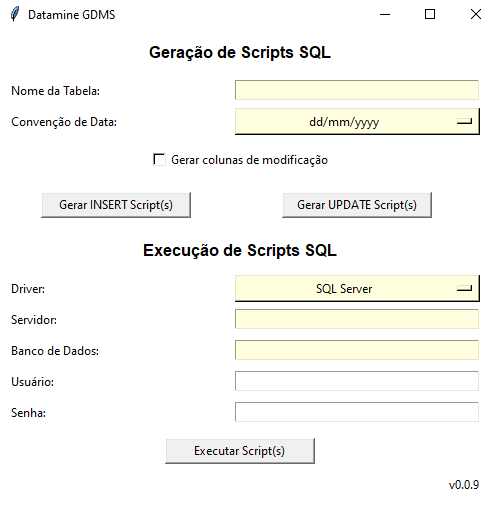
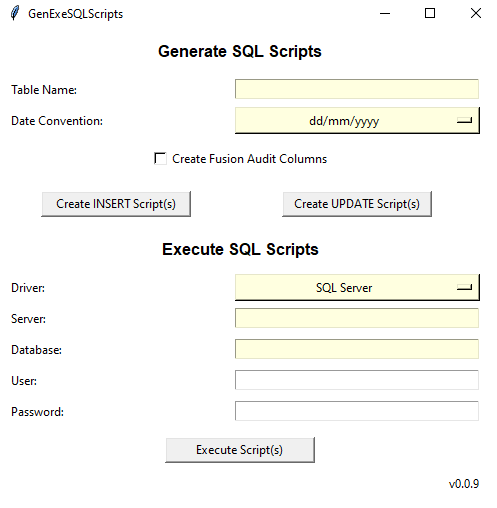
Translate UI from portuguese to english

diff --git a/GenExeSQLScripts.py b/GenExeSQLScripts.py
@@ -5,60 +5,55 @@ from src.buttons import insert_scripts, update_scripts, insert_data_into_db
 
 
 ######################################################################################
-# ------------------------------------ Interface ----------------------------------- #
+# ---------------------------------- User Interface -------------------------------- #
 ######################################################################################
 
-# Criação da janela principal
 root = Tk()
-
-# Título
-root.title("Datamine GDMS")
-# Dimensões da tabela
+root.title("GenExeSQLScripts")
 root.geometry("500x480")
-# Configuração de background
 root.configure(background='white')
 
-# Criação dos widgets - Geração de Scripts SQL
-txt_title1 = Label(root, text="Geração de Scripts SQL", bg='white', fg='black', font="lucida 12 bold")
-txt_table = Label(root, text="Nome da Tabela:", width=30, bg='white', fg='black', justify=LEFT, anchor='w', padx=10)
+# Widgets - Generate SQL scripts
+txt_title1 = Label(root, text="Generate SQL Scripts", bg='white', fg='black', font="lucida 12 bold")
+txt_table = Label(root, text="Table Name:", width=30, bg='white', fg='black', justify=LEFT, anchor='w', padx=10)
 tbx_table = Text(root, height=1, width=30, bg='light yellow')
 
-txt_date_convention = Label(root, text="Convenção de Data:", width=30, bg='white', fg='black', justify=LEFT, anchor='w', padx=10)
+txt_date_convention = Label(root, text="Date Convention:", width=30, bg='white', fg='black', justify=LEFT, anchor='w', padx=10)
 date_convention_var = StringVar(root)
 date_convention_var.set("dd/mm/yyyy")
 pkl_date_convention = OptionMenu(root, date_convention_var, *list(DATE_CONVENTIONS.keys()))
 pkl_date_convention.config(height=1, width=34, bg='light yellow', highlightcolor='white', highlightbackground='white')
 
 cbx_modify_cols_var = IntVar()
-cbx_modify_cols = Checkbutton(root, text="Gerar colunas de modificação", bg='white', fg='black',
+cbx_modify_cols = Checkbutton(root, text="Create Fusion Audit Columns", bg='white', fg='black',
                               variable=cbx_modify_cols_var)
 
-btn_insert_scripts = Button(root, text="Gerar INSERT Script(s)", width=20, justify=CENTER, cursor='hand2',
+btn_insert_scripts = Button(root, text="Create INSERT Script(s)", width=20, justify=CENTER, cursor='hand2',
                             command=lambda: insert_scripts(tbx_table, date_convention_var, cbx_modify_cols_var.get()))
-btn_update_scripts = Button(root, text="Gerar UPDATE Script(s)", width=20, justify=CENTER, cursor='hand2',
+btn_update_scripts = Button(root, text="Create UPDATE Script(s)", width=20, justify=CENTER, cursor='hand2',
                             command=lambda: update_scripts(tbx_table, cbx_modify_cols_var.get()))
 
-# Criação dos widgets - Execução de Scripts SQL
-txt_title2 = Label(root, text="Execução de Scripts SQL", bg='white', fg='black', font="lucida 12 bold")
+# Widgets - Execute SQL Scripts
+txt_title2 = Label(root, text="Execute SQL Scripts", bg='white', fg='black', font="lucida 12 bold")
 txt_driver = Label(root, text="Driver:", width=30, bg='white', fg='black', justify=LEFT, anchor='w', padx=10)
 driver_var = StringVar(root)
 driver_var.set("SQL Server")
 pkl_driver = OptionMenu(root, driver_var, "SQL Server", "ODBC Driver 17 for SQL Server")
 pkl_driver.config(height=1, width=34, bg='light yellow', highlightcolor='white', highlightbackground='white')
-txt_server = Label(root, text="Servidor:", width=30, bg='white', fg='black', justify=LEFT, anchor='w', padx=10)
+txt_server = Label(root, text="Server:", width=30, bg='white', fg='black', justify=LEFT, anchor='w', padx=10)
 tbx_server = Text(root, height=1, width=30, bg='light yellow')
-txt_db = Label(root, text="Banco de Dados:", width=30, bg='white', fg='black', justify=LEFT, anchor='w', padx=10)
+txt_db = Label(root, text="Database:", width=30, bg='white', fg='black', justify=LEFT, anchor='w', padx=10)
 tbx_db = Text(root, height=1, width=30, bg='light yellow')
-txt_user = Label(root, text="Usuário:", width=30, bg='white', fg='black', justify=LEFT, anchor='w', padx=10)
+txt_user = Label(root, text="User:", width=30, bg='white', fg='black', justify=LEFT, anchor='w', padx=10)
 tbx_user = Text(root, height=1, width=30, bg='white')
-txt_pwd = Label(root, text="Senha:", width=30, bg='white', fg='black', justify=LEFT, anchor='w', padx=10)
+txt_pwd = Label(root, text="Password:", width=30, bg='white', fg='black', justify=LEFT, anchor='w', padx=10)
 tbx_pwd = Text(root, height=1, width=30, bg='white')
 
-btn_insert_data = Button(root, text="Executar Script(s)", width=20, justify=CENTER, cursor='hand2',
+btn_insert_data = Button(root, text="Execute Script(s)", width=20, justify=CENTER, cursor='hand2',
                          command=lambda: insert_data_into_db(driver_var, tbx_server, tbx_db, tbx_user, tbx_pwd))
 txt_version = Label(root, text="v0.0.9", bg='white', fg='black', justify=RIGHT, anchor='e')
 
-# Posição dos widgets - Geração de Scripts SQL
+# Widget position - Generate SQL Scripts
 txt_title1.grid(row=0, column=0, columnspan=2, pady=10)
 txt_table.grid(row=1, column=0, pady=5, sticky=W)
 tbx_table.grid(row=1, column=1)
@@ -71,7 +66,7 @@ cbx_modify_cols.grid(row=3, column=0, columnspan=2, pady=10)
 btn_insert_scripts.grid(row=4, column=0, pady=10)
 btn_update_scripts.grid(row=4, column=1, pady=10)
 
-# Posição dos widgets - Execução de Scripts SQL
+# Widget position - Execute SQL Scripts
 txt_title2.grid(row=5, column=0, columnspan=2, pady=10)
 txt_driver.grid(row=6, column=0, pady=5, sticky=W)
 pkl_driver.grid(row=6, column=1)
@@ -87,11 +82,10 @@ btn_insert_data.grid(row=11, column=0, columnspan=2, pady=10)
 txt_version.grid(row=12, column=1, sticky=E)
 
 # Tooltips
-tip_table = Hovertip(tbx_table, "Nome da tabela do banco que \nreceberá os dados.")
-tip_server = Hovertip(tbx_server, "Insira o nome do servidor.")
-tip_db = Hovertip(tbx_db, "Insira o nome do banco de dados.")
-tip_user = Hovertip(tbx_user, "Insira o usuário (Database Authentication).")
-tip_pwd = Hovertip(tbx_pwd, "Insira a senha (Database Authentication).")
+tip_table = Hovertip(tbx_table, "Insert table name")
+tip_server = Hovertip(tbx_server, "Insert server name")
+tip_db = Hovertip(tbx_db, "Insert database name")
+tip_user = Hovertip(tbx_user, "Insert user name (Database Authentication)")
+tip_pwd = Hovertip(tbx_pwd, "Insert password (Database Authentication)")
 
-# Execução do app
 root.mainloop()
